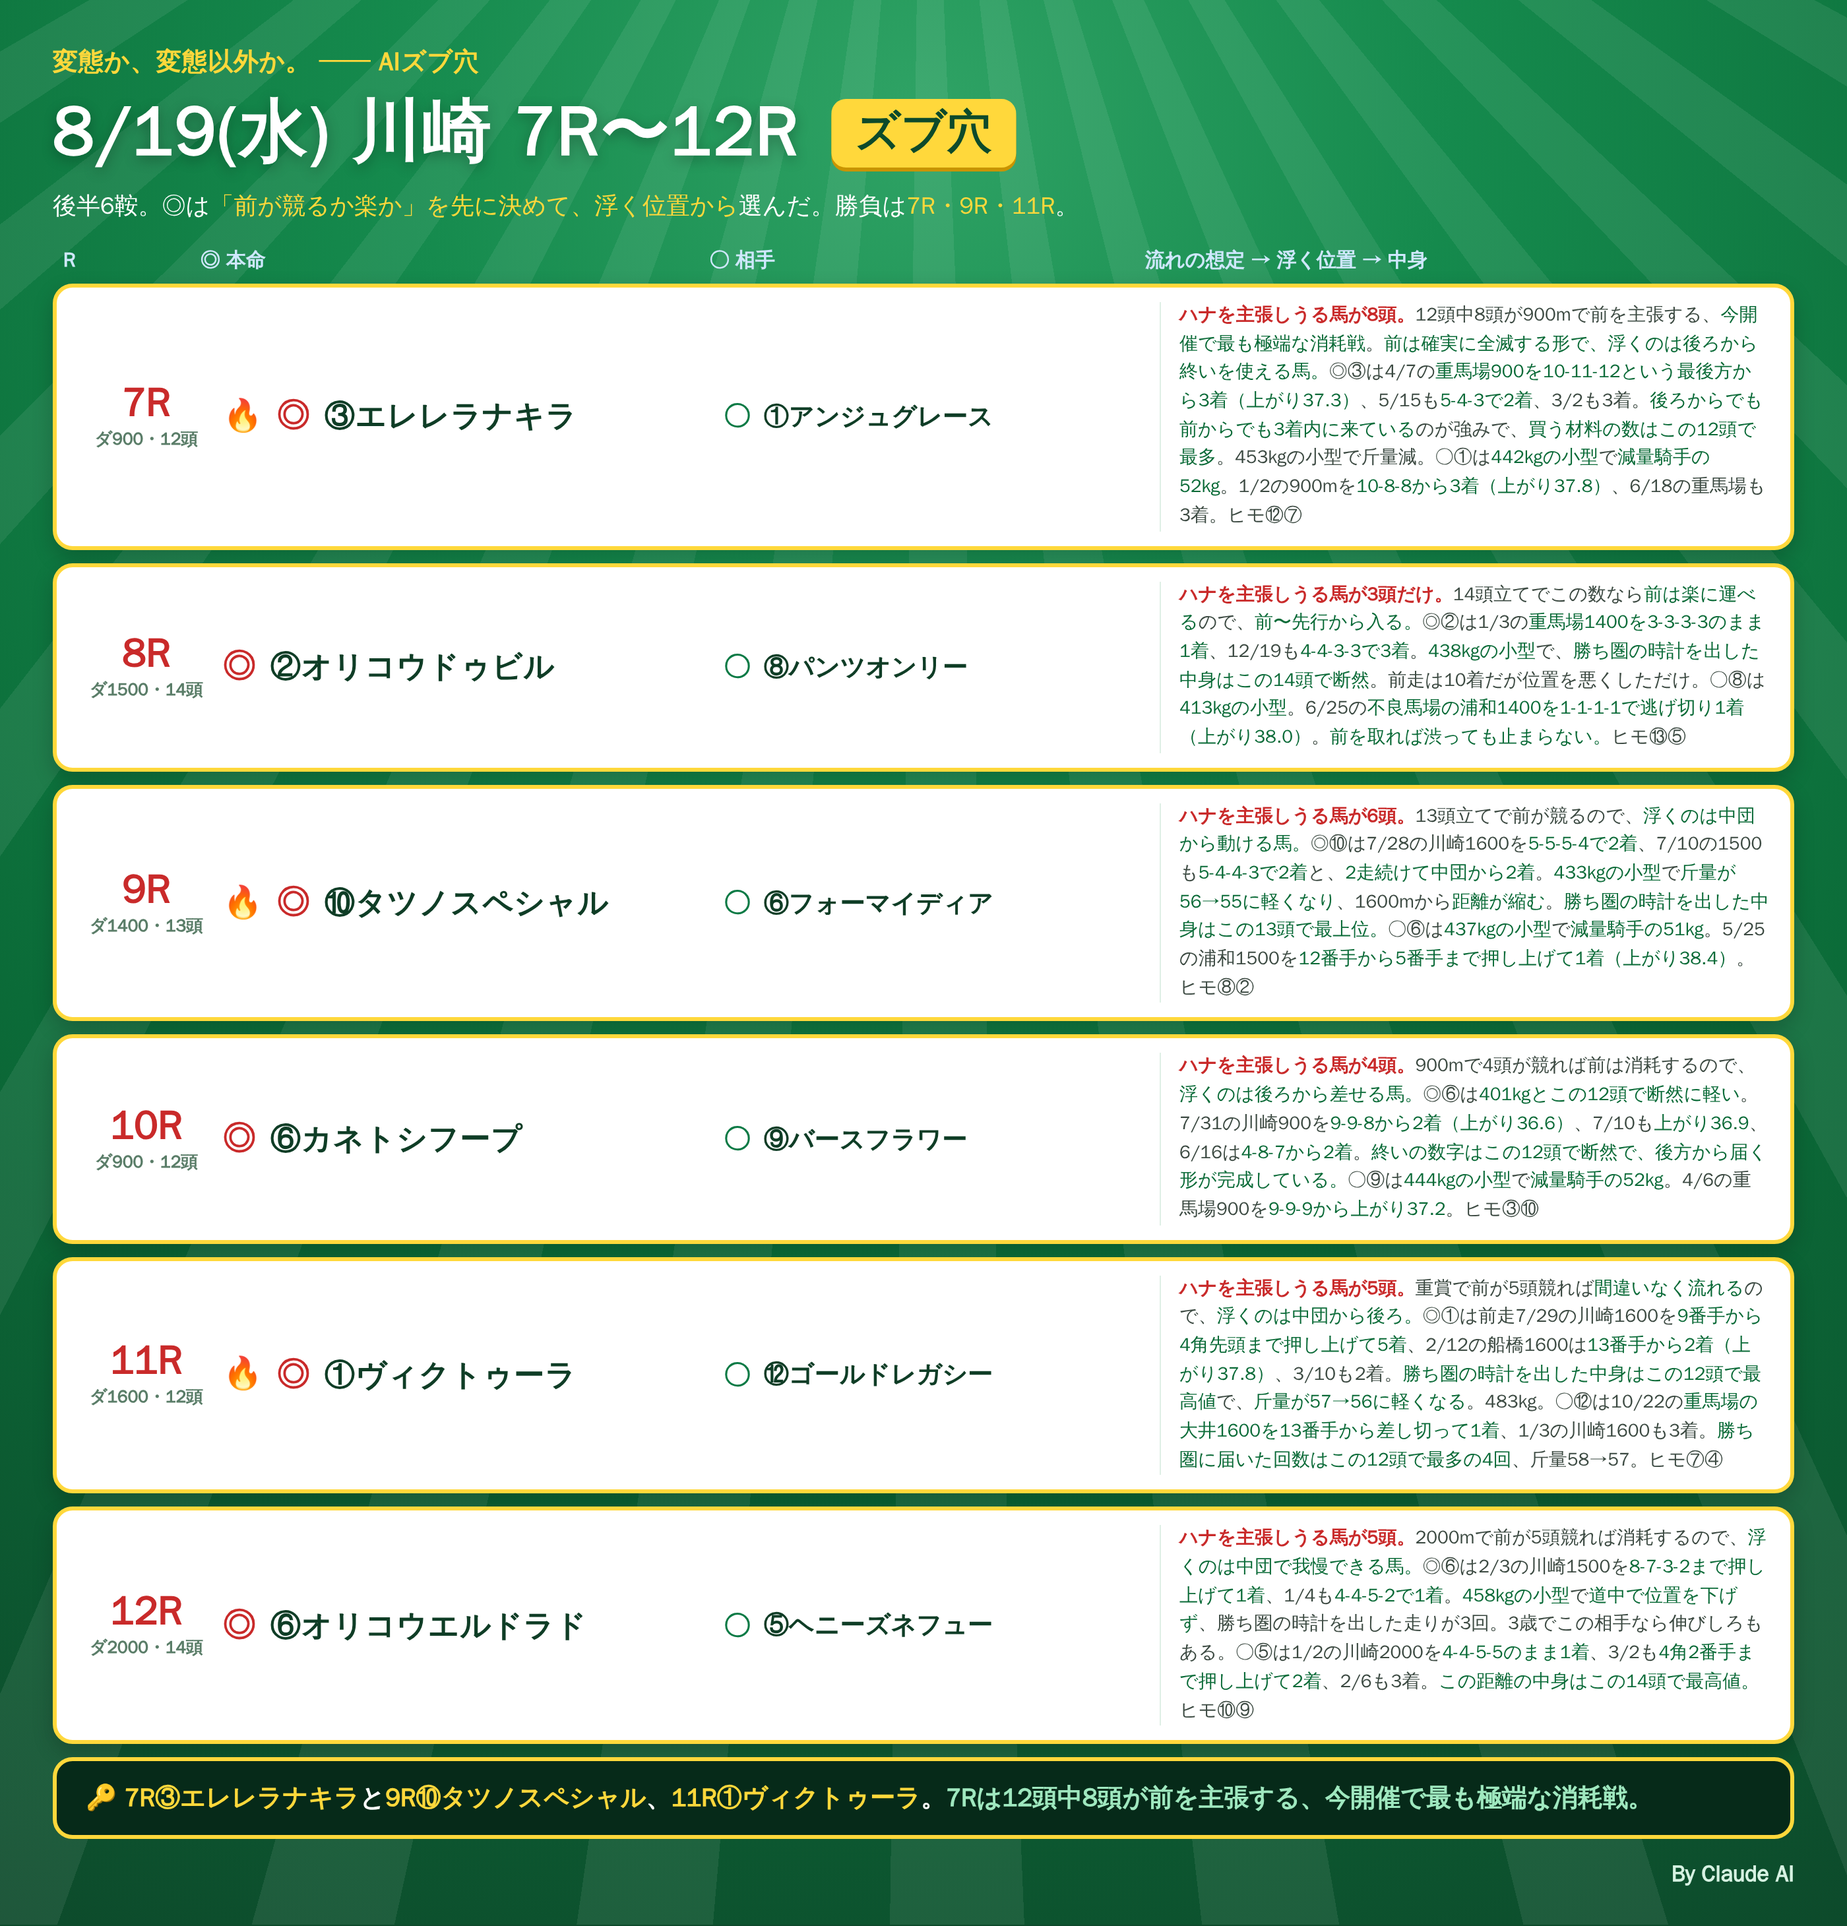
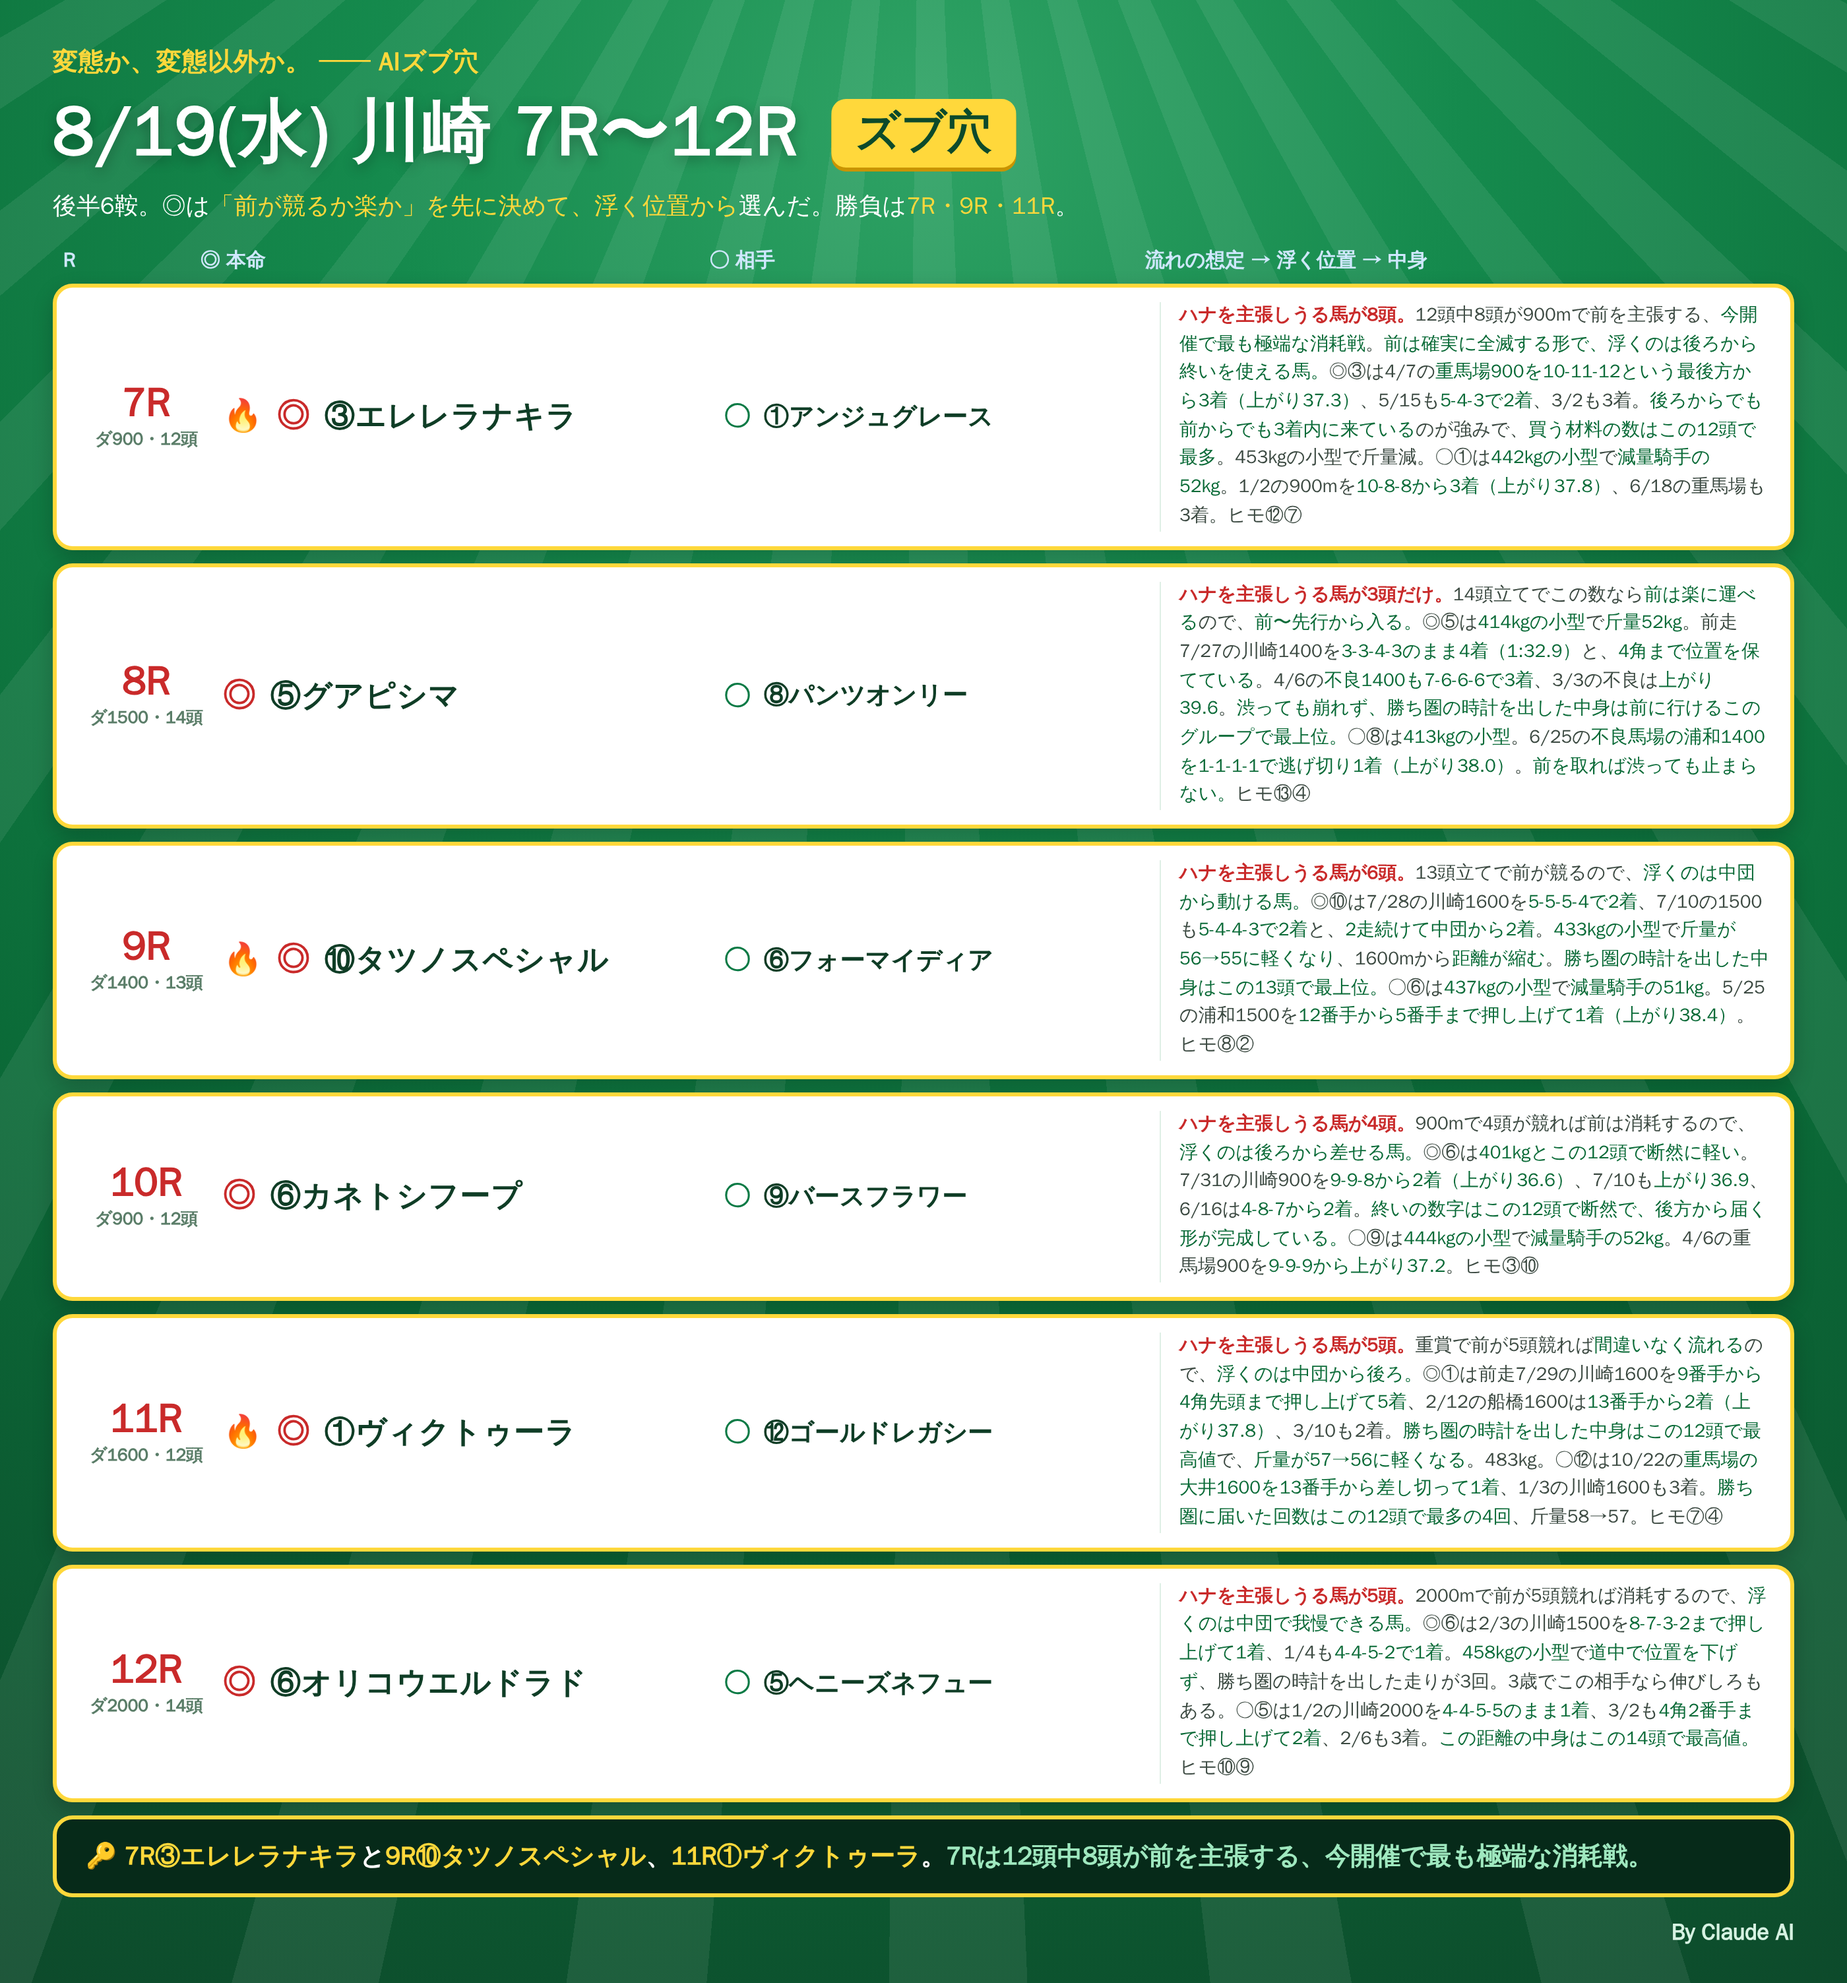
notes: 8/19 川崎 8R ②オリコウドゥビル出走取消に伴う組み直し
Claude-Session: https://claude.ai/code/session_01RoHscZkr96FNaxQWvUqgEw

diff --git a/notes/live/2026-08-19/kawasaki_7_12.html b/notes/live/2026-08-19/kawasaki_7_12.html
@@ -60,9 +60,9 @@
 
   <div class="row">
     <div class="rN"><div class="n">8R</div><div class="d">ダ1500・14頭</div></div>
-    <div class="hm"><span class="mk">◎</span><span class="nm">②オリコウドゥビル</span></div>
+    <div class="hm"><span class="mk">◎</span><span class="nm">⑤グアピシマ</span></div>
     <div class="at"><span class="mk2">○</span><span class="nm2">⑧パンツオンリー</span></div>
-    <div class="memo"><b class='r'>ハナを主張しうる馬が3頭だけ。</b>14頭立てでこの数なら<b>前は楽に運べる</b>ので、<b>前〜先行から入る。</b>◎②は1/3の<b>重馬場1400を3-3-3-3のまま1着</b>、12/19も<b>4-4-3-3で3着</b>。<b>438kgの小型</b>で、<b>勝ち圏の時計を出した中身はこの14頭で断然</b>。前走は10着だが位置を悪くしただけ。○⑧は<b>413kgの小型</b>。6/25の<b>不良馬場の浦和1400を1-1-1-1で逃げ切り1着（上がり38.0）</b>。<b>前を取れば渋っても止まらない。</b>ヒモ⑬⑤</div>
+    <div class="memo"><b class='r'>ハナを主張しうる馬が3頭だけ。</b>14頭立てでこの数なら<b>前は楽に運べる</b>ので、<b>前〜先行から入る。</b>◎⑤は<b>414kgの小型</b>で<b>斤量52kg</b>。前走7/27の川崎1400を<b>3-3-4-3のまま4着（1:32.9）</b>と、<b>4角まで位置を保てている</b>。4/6の<b>不良1400も7-6-6-6で3着</b>、3/3の不良は<b>上がり39.6</b>。<b>渋っても崩れず、勝ち圏の時計を出した中身は前に行けるこのグループで最上位。</b>○⑧は<b>413kgの小型</b>。6/25の<b>不良馬場の浦和1400を1-1-1-1で逃げ切り1着（上がり38.0）</b>。<b>前を取れば渋っても止まらない。</b>ヒモ⑬④</div>
   </div>
 
   <div class="row">

diff --git a/notes/live/2026-08-19/kawasaki_7_12_classic.html b/notes/live/2026-08-19/kawasaki_7_12_classic.html
@@ -62,8 +62,8 @@
   <div class="row">
     <div class="rN"><div class="n">8R</div><div class="d">ダ1500・14頭</div></div>
     <div class="hm"><span class="mk">◎</span><span class="nm">③ハイビッグゴールド</span></div>
-    <div class="at"><span class="mk2">○</span><span class="nm2">②オリコウドゥビル</span></div>
-    <div class="memo">◎③は<b>中央で1700〜2000mを使われてきた転入初戦</b>。4/4の阪神1800を<b>12番手から4番手まで押し上げて6着</b>、3/15も<b>12番手から6番手</b>と、<b>後ろから動ける</b>。2000mから<b>1500mへ縮み、斤量も57→56に減る</b>。<b>買う材料の数はこの14頭で最多。</b>○②は<b>438kgの小型</b>で1/3の<b>重馬場1400を3-3-3-3のまま1着</b>。<b>勝ち圏の時計を出した中身はこの14頭で断然。</b>ヒモ⑨⑪</div>
+    <div class="at"><span class="mk2">○</span><span class="nm2">⑨クイーンズステート</span></div>
+    <div class="memo">◎③は<b>中央で1700〜2000mを使われてきた転入初戦</b>。4/4の阪神1800を<b>12番手から4番手まで押し上げて6着</b>、3/15も<b>12番手から6番手</b>と、<b>後ろから動ける</b>。2000mから<b>1500mへ縮み、斤量も57→56に減る</b>。<b>買う材料の数はこの14頭で最多。</b>○⑨は<b>401kgとこの14頭で断然に軽い</b>。4/6の<b>重馬場1400を3-3-3-4で3着（上がり39.3）</b>、5/11も<b>5-4-4-4で4着</b>。<b>渋っても終いが落ちず、勝ち圏の時計を出した中身も上位。</b>ヒモ⑪⑧</div>
   </div>
 
   <div class="row">

diff --git a/notes/live/2026-08-19/README.md b/notes/live/2026-08-19/README.md
@@ -47,7 +47,7 @@
 | **5R ダ1400** | **③セレナス**（本人指定・◎○入れ替え） | ④コンペティティブ | ⑨① | 6頭競る→一列後ろ／③は426kgで断然に軽く川崎1400を5走して崩れず・④は399=8.0本物2で断然 |
 | 6R ダ1400 | ⑩カサミラ | ④ベラヴィットーリア | ⑤② | 7頭激戦→一列後ろ／斤52・4-5-3-2で2着 |
 | **7R ダ900** | **③エレレラナキラ** | ①アンジュグレース | ⑫⑦ | **8頭が900mで競る＝最も極端**→後方／重900を最後方から3着(上37.3)・E5最多 |
-| 8R ダ1500 | ②オリコウドゥビル | ⑧パンツオンリー | ⑬⑤ | 3頭のみ→前／**399=7.0本物2で断然**・重1400を1着 |
+| 8R ダ1500 | **⑤グアピシマ**（②取消のため差し替え） | ⑧パンツオンリー | ⑬④ | 3頭のみ→前／⑤は399=3.6本物1で前グループ最上位・414kg・斤52・前走3-3-4-3で4着 |
 | **9R ダ1400** | **⑩タツノスペシャル** | ⑥フォーマイディア | ⑧② | 6頭競る→中団／**399=6.9本物2が最高**・2走続けて中団から2着 |
 | 10R ダ900 | ⑥カネトシフープ | ⑨バースフラワー | ③⑩ | 4頭消耗→後方／**401kgで最軽量・上36.6/36.9で断然** |
 | **11R ダ1600** | **①ヴィクトゥーラ** | ⑫ゴールドレガシー | ⑦④ | 5頭競る→中団／**399=13.1でカード最高**・前走4角先頭まで押し上げ |
@@ -128,7 +128,7 @@
 | 3R | 1頭(楽) | ②クマサンファミリー(先行) | **⑤キーセンシェイラ**(ハナ) |
 | 4R | 4頭(消耗) | ③フロレシミエント(中団) | **①マイリトルロマンス**(後方) |
 | 6R | 7頭(激戦) | ②ヤマニントレモロ(ハナ) | **⑩カサミラ**(先行) |
-| 8R | 3頭(楽) | ③ハイビッグゴールド(中団) | **②オリコウドゥビル**(先行) |
+| 8R | 3頭(楽) | ③ハイビッグゴールド(中団) | **⑤グアピシマ**(先行) |
 | 9R | 6頭(競る) | ①ヒロキ(ハナ・E8最多) | **⑩タツノスペシャル**(中団) |
 | 11R | 5頭(競る) | ⑪アランバローズ(ハナ) | **①ヴィクトゥーラ**(中団) |
 
@@ -144,3 +144,20 @@
 
 ※リード文の「◎は買う材料がいちばん多くて、人気にならない馬から入る」は**選び方の説明**なので現状維持。
 　こちらも変える場合は別途指示をもらう。
+
+## 【出走取消】8R ②オリコウドゥビル（2026-08-18 本人連絡）
+②は**新手順版の◎**、**いつも通り版の○**だったため両方を組み直した。
+
+| | 変更前 | **変更後** |
+|---|---|---|
+| 新手順版 | ◎②オリコウドゥビル ○⑧ ヒモ⑬⑤ | **◎⑤グアピシマ ○⑧パンツオンリー ヒモ⑬④** |
+| いつも通り版 | ◎③ ○②オリコウドゥビル ヒモ⑨⑪ | **◎③ハイビッグゴールド ○⑨クイーンズステート ヒモ⑪⑧** |
+
+**差し替えの根拠（新手順）**：8Rはハナ主張3頭＝前が楽。②が抜けた後、
+「ハナ＋先行」グループで399が最上位なのは**⑤グアピシマ（399=3.6・本物1）**。
+414kgの小型・斤52kg（減量騎手）で、前走7/27の川崎1400を**3-3-4-3のまま4着（1:32.9）**と位置を保てている。
+
+**差し替えの根拠（いつも通り）**：◎③はエッジ4で最多のまま維持。
+○は②が抜けたので、エッジ3の中で399が最上位の**⑨クイーンズステート（399=4.5・本物1・401kg）**に。
+
+→ **8RのA/B判定は維持**（いつも通り◎③ハイビッグゴールド vs 新手順◎⑤グアピシマ）。
